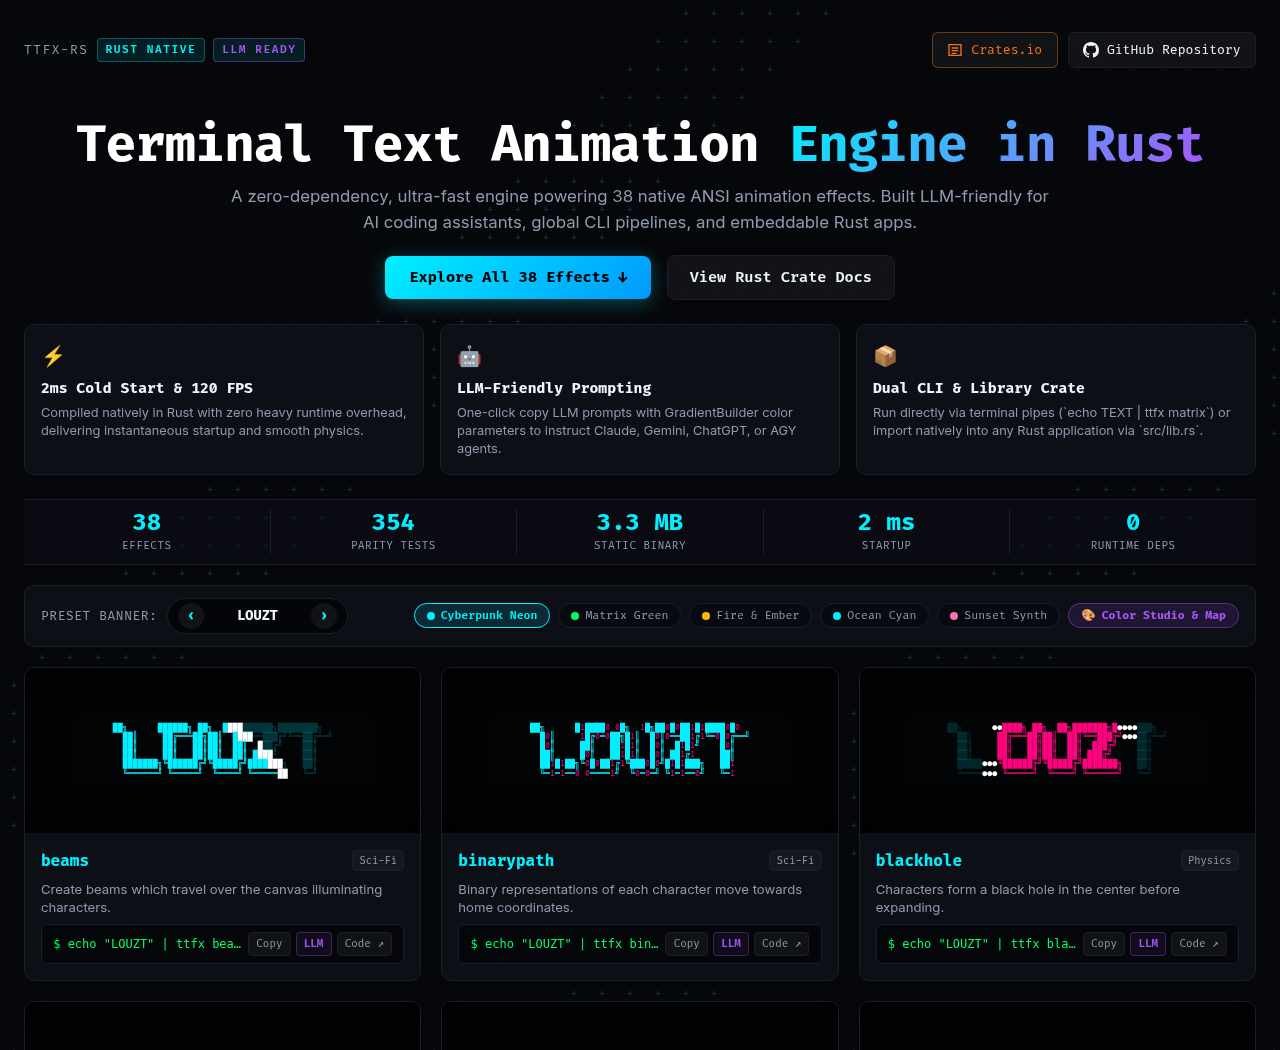
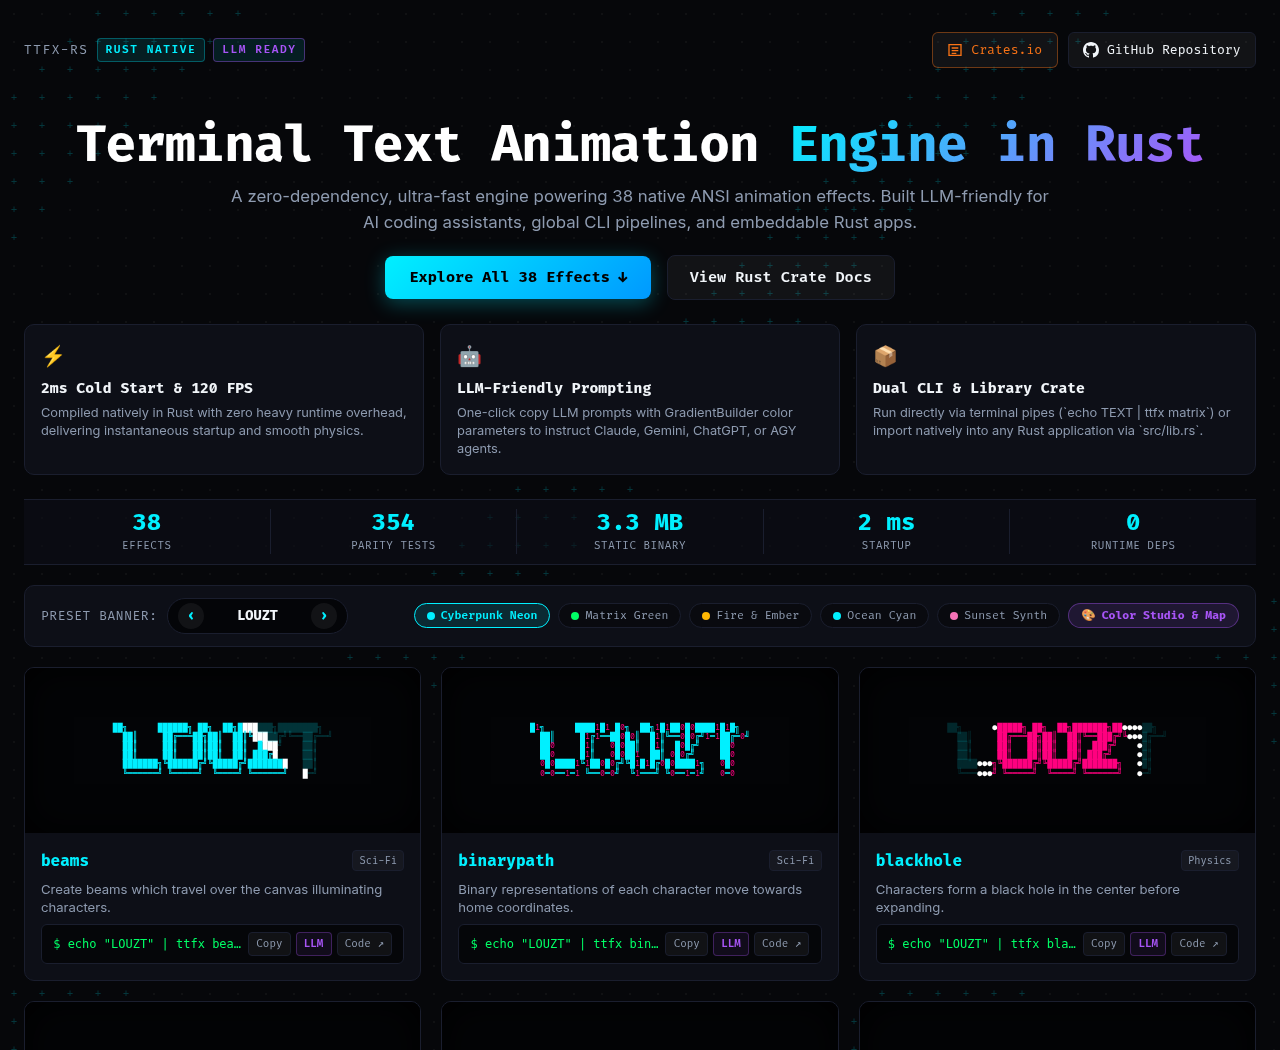
fix(styles): eliminate all backdrop-filter blur from overlay to ensure 100% sharp background visibility, sync preview images

diff --git a/docs/index.html b/docs/index.html
@@ -586,9 +586,7 @@
             left: 0;
             width: 100vw;
             height: 100vh;
-            background: rgba(4, 5, 8, 0.45);
-            backdrop-filter: blur(3px);
-            -webkit-backdrop-filter: blur(3px);
+            background: rgba(4, 5, 8, 0.4);
             z-index: 999;
             display: flex;
             align-items: center;
